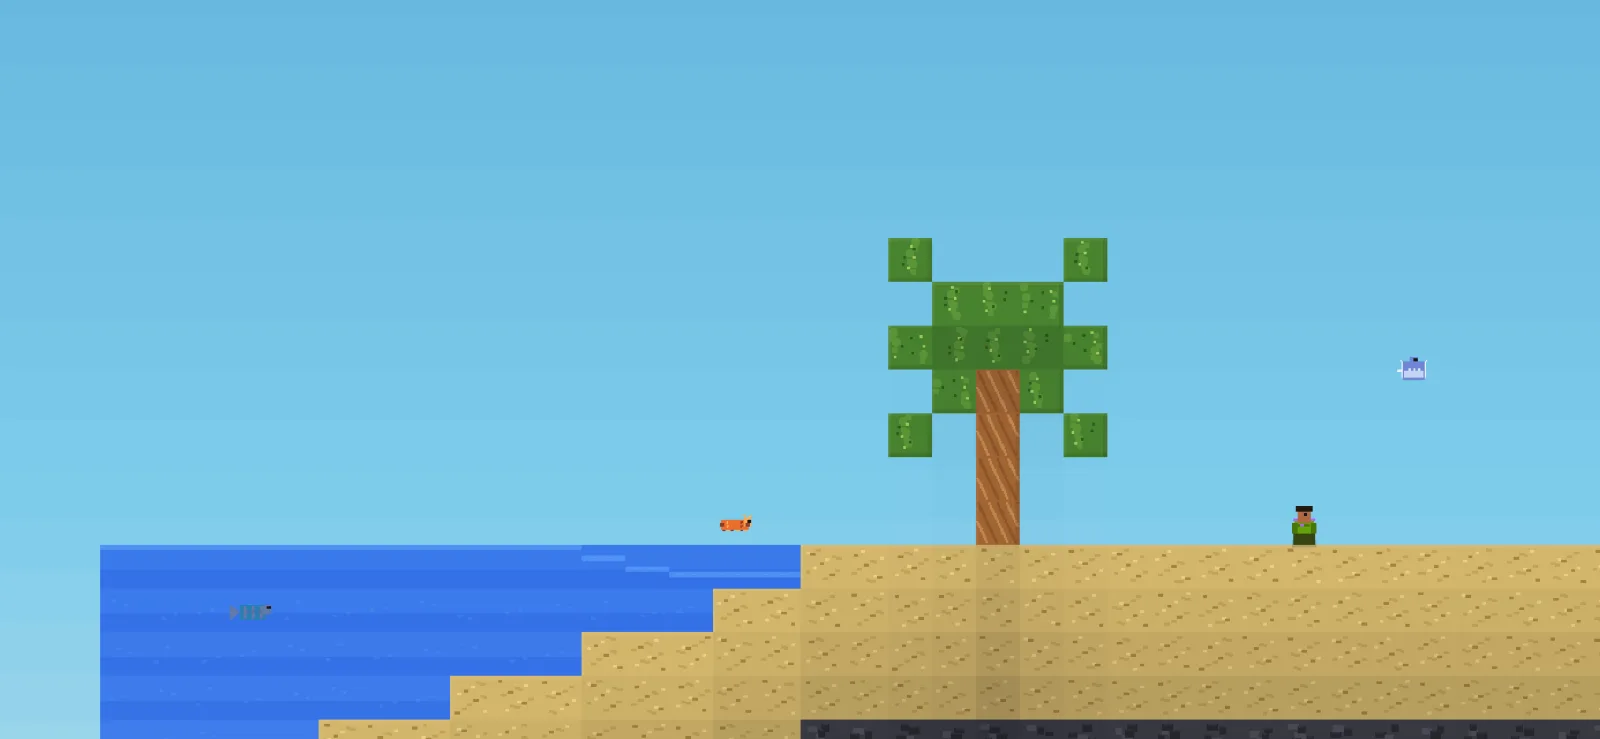
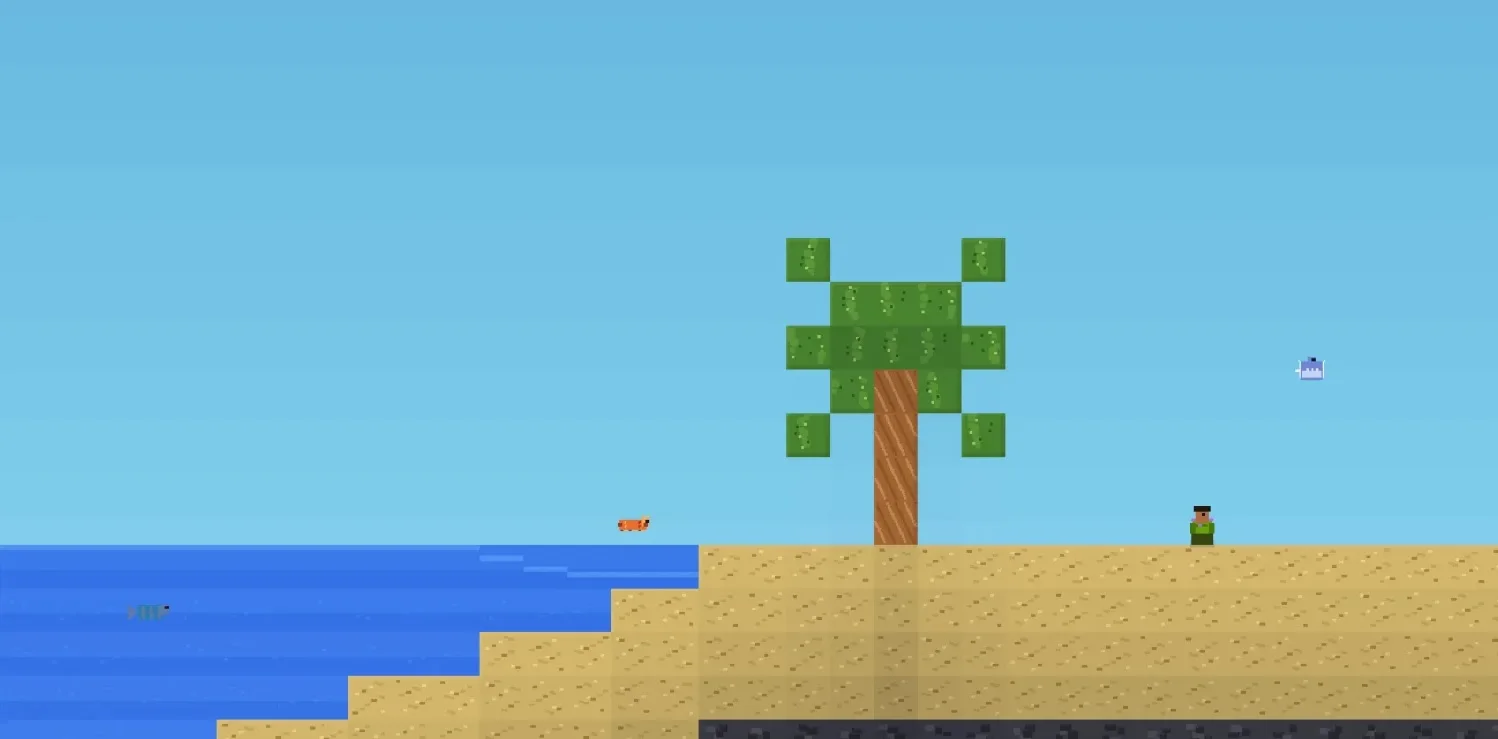
Use supplied Beach biome image

diff --git a/wiki/biomes/index.html b/wiki/biomes/index.html
@@ -24,7 +24,7 @@
 <body class="wiki-page">
   <header class="wiki-header"><a class="wiki-brand" href="/">Tiny Block</a><a class="btn btn-primary wiki-install" href="/download/">Play free</a></header>
   <nav class="wiki-nav" aria-label="Tiny Block Wiki"><a href="/wiki/">Wiki</a><a href="/wiki/biomes/">Biomes</a><a href="/wiki/materials/">Materials</a><a href="/wiki/creatures/">Creatures</a><a href="/wiki/plants/">Plants</a><a href="/wiki/recipes/">Recipes</a><a href="/guides/how-to-grow-your-one-block-island/">Starter guide</a></nav>
-  <main class="wiki-main"><section class="wiki-title"><p class="wiki-eyebrow">World generation</p><h1>Biomes</h1><p>Floating Islands can lead from bright plains to glaciers, beaches, caverns, and volcanic ground.</p></section><div class="wiki-stack"><article class="wiki-entry wiki-entry-media"><img src="/assets/wiki/biomes/plains.webp" alt="Plains biome in Tiny Block" width="1600" height="739" loading="lazy"><div><p class="wiki-label">Biome</p><h2>Plains</h2><p>Open grassland with occasional trees.</p><dl><dt>Terrain</dt><dd>Grass, dirt, stone</dd><dt>Plants</dt><dd>Meadow Bloom, Prairie Sprig, Oak, Weeping Tree</dd><dt>Creatures</dt><dd>Meadow Hopper, Forest Fox, Sky Mote</dd></dl></div></article><article class="wiki-entry wiki-entry-media"><img src="/assets/wiki/biomes/forest.webp" alt="Forest biome in Tiny Block" width="1600" height="739" loading="lazy"><div><p class="wiki-label">Biome</p><h2>Forest</h2><p>A damp woodland rich in trees and small creatures.</p><dl><dt>Terrain</dt><dd>Grass, dirt, stone, wood</dd><dt>Plants</dt><dd>Prairie Sprig, Meadow Bloom, Oak, Weeping Tree</dd><dt>Creatures</dt><dd>Forest Fox, Moss Crawler, Moss Slug</dd></dl></div></article><article class="wiki-entry wiki-entry-media"><img src="/assets/wiki/biomes/tundra.webp" alt="Tundra biome in Tiny Block" width="1600" height="739" loading="lazy"><div><p class="wiki-label">Biome</p><h2>Tundra</h2><p>A cold open land where water slowly freezes.</p><dl><dt>Terrain</dt><dd>Dirt, stone, ice</dd><dt>Plants</dt><dd>Pine</dd><dt>Creatures</dt><dd>Snow Penguin, Sky Mote, Gloomwing</dd></dl></div></article><article class="wiki-entry wiki-entry-media"><img src="/assets/wiki/biomes/ice-fields.webp" alt="Ice Fields biome in Tiny Block" width="1600" height="739" loading="lazy"><div><p class="wiki-label">Biome</p><h2>Ice Fields</h2><p>A barren glacier of deep ice, frozen water, and exposed stone.</p><dl><dt>Terrain</dt><dd>Ice, stone, water</dd><dt>Plants</dt><dd>—</dd><dt>Creatures</dt><dd>Snow Penguin, Sky Mote, Gloomwing</dd></dl></div></article><article class="wiki-entry wiki-entry-media"><img src="/assets/wiki/biomes/desert.webp" alt="Desert biome in Tiny Block" width="1600" height="739" loading="lazy"><div><p class="wiki-label">Biome</p><h2>Desert</h2><p>Dry dunes over deep stone.</p><dl><dt>Terrain</dt><dd>Sand, stone</dd><dt>Plants</dt><dd>—</dd><dt>Creatures</dt><dd>Sky Mote, Dusk Prowler</dd></dl></div></article><article class="wiki-entry wiki-entry-media"><img src="/assets/wiki/biomes/obsidian.webp" alt="Obsidian Wastes biome in Tiny Block" width="1600" height="739" loading="lazy"><div><p class="wiki-label">Biome</p><h2>Obsidian Wastes</h2><p>Weathered volcanic ground hiding obsidian, ancient formations, and lava pools.</p><dl><dt>Terrain</dt><dd>Cobblestone, stone, obsidian, lava</dd><dt>Plants</dt><dd>—</dd><dt>Creatures</dt><dd>Ember Walker, Cinder Eel, Gloomwing</dd></dl></div></article><article class="wiki-entry wiki-entry-media"><img src="/assets/wiki/biomes/beach.webp" alt="Beach biome in Tiny Block" width="1600" height="739" loading="lazy"><div><p class="wiki-label">Biome</p><h2>Beach</h2><p>A warm sandy edge beside open water.</p><dl><dt>Terrain</dt><dd>Sand, stone, water</dd><dt>Plants</dt><dd>Palm</dd><dt>Creatures</dt><dd>Pool Drifter, Sand Crab, Sky Mote</dd></dl></div></article><article class="wiki-entry wiki-entry-media"><img src="/assets/wiki/biomes/riverbank.webp" alt="Riverbank biome in Tiny Block" width="1600" height="739" loading="lazy"><div><p class="wiki-label">Biome</p><h2>Riverbank</h2><p>Low sandy ground shaped by flowing water.</p><dl><dt>Terrain</dt><dd>Sand, stone, water</dd><dt>Plants</dt><dd>—</dd><dt>Creatures</dt><dd>Pool Drifter, Sand Crab, Moss Slug</dd></dl></div></article><article class="wiki-entry wiki-entry-media"><img src="/assets/wiki/biomes/cavern.webp" alt="Cavern biome in Tiny Block" width="1600" height="739" loading="lazy"><div><p class="wiki-label">Biome</p><h2>Cavern</h2><p>A dark underground habitat.</p><dl><dt>Terrain</dt><dd>Stone</dd><dt>Plants</dt><dd>Cave Vines</dd><dt>Creatures</dt><dd>Cave Spider, Cave Skitter, Moss Crawler</dd></dl></div></article><article class="wiki-entry wiki-entry-media"><img src="/assets/wiki/biomes/volcanic.webp" alt="Volcanic biome in Tiny Block" width="1600" height="739" loading="lazy"><div><p class="wiki-label">Biome</p><h2>Volcanic</h2><p>Hot rock pockets inhabited by ember creatures.</p><dl><dt>Terrain</dt><dd>Stone, obsidian, lava</dd><dt>Plants</dt><dd>—</dd><dt>Creatures</dt><dd>Ember Walker, Cinder Eel</dd></dl></div></article></div></main>
+  <main class="wiki-main"><section class="wiki-title"><p class="wiki-eyebrow">World generation</p><h1>Biomes</h1><p>Floating Islands can lead from bright plains to glaciers, beaches, caverns, and volcanic ground.</p></section><div class="wiki-stack"><article class="wiki-entry wiki-entry-media"><img src="/assets/wiki/biomes/plains.webp" alt="Plains biome in Tiny Block" width="1600" height="739" loading="lazy"><div><p class="wiki-label">Biome</p><h2>Plains</h2><p>Open grassland with occasional trees.</p><dl><dt>Terrain</dt><dd>Grass, dirt, stone</dd><dt>Plants</dt><dd>Meadow Bloom, Prairie Sprig, Oak, Weeping Tree</dd><dt>Creatures</dt><dd>Meadow Hopper, Forest Fox, Sky Mote</dd></dl></div></article><article class="wiki-entry wiki-entry-media"><img src="/assets/wiki/biomes/forest.webp" alt="Forest biome in Tiny Block" width="1600" height="739" loading="lazy"><div><p class="wiki-label">Biome</p><h2>Forest</h2><p>A damp woodland rich in trees and small creatures.</p><dl><dt>Terrain</dt><dd>Grass, dirt, stone, wood</dd><dt>Plants</dt><dd>Prairie Sprig, Meadow Bloom, Oak, Weeping Tree</dd><dt>Creatures</dt><dd>Forest Fox, Moss Crawler, Moss Slug</dd></dl></div></article><article class="wiki-entry wiki-entry-media"><img src="/assets/wiki/biomes/tundra.webp" alt="Tundra biome in Tiny Block" width="1600" height="739" loading="lazy"><div><p class="wiki-label">Biome</p><h2>Tundra</h2><p>A cold open land where water slowly freezes.</p><dl><dt>Terrain</dt><dd>Dirt, stone, ice</dd><dt>Plants</dt><dd>Pine</dd><dt>Creatures</dt><dd>Snow Penguin, Sky Mote, Gloomwing</dd></dl></div></article><article class="wiki-entry wiki-entry-media"><img src="/assets/wiki/biomes/ice-fields.webp" alt="Ice Fields biome in Tiny Block" width="1600" height="739" loading="lazy"><div><p class="wiki-label">Biome</p><h2>Ice Fields</h2><p>A barren glacier of deep ice, frozen water, and exposed stone.</p><dl><dt>Terrain</dt><dd>Ice, stone, water</dd><dt>Plants</dt><dd>—</dd><dt>Creatures</dt><dd>Snow Penguin, Sky Mote, Gloomwing</dd></dl></div></article><article class="wiki-entry wiki-entry-media"><img src="/assets/wiki/biomes/desert.webp" alt="Desert biome in Tiny Block" width="1600" height="739" loading="lazy"><div><p class="wiki-label">Biome</p><h2>Desert</h2><p>Dry dunes over deep stone.</p><dl><dt>Terrain</dt><dd>Sand, stone</dd><dt>Plants</dt><dd>—</dd><dt>Creatures</dt><dd>Sky Mote, Dusk Prowler</dd></dl></div></article><article class="wiki-entry wiki-entry-media"><img src="/assets/wiki/biomes/obsidian.webp" alt="Obsidian Wastes biome in Tiny Block" width="1600" height="739" loading="lazy"><div><p class="wiki-label">Biome</p><h2>Obsidian Wastes</h2><p>Weathered volcanic ground hiding obsidian, ancient formations, and lava pools.</p><dl><dt>Terrain</dt><dd>Cobblestone, stone, obsidian, lava</dd><dt>Plants</dt><dd>—</dd><dt>Creatures</dt><dd>Ember Walker, Cinder Eel, Gloomwing</dd></dl></div></article><article class="wiki-entry wiki-entry-media"><img src="/assets/wiki/biomes/beach.webp" alt="Beach biome in Tiny Block" width="1498" height="739" loading="lazy"><div><p class="wiki-label">Biome</p><h2>Beach</h2><p>A warm sandy edge beside open water.</p><dl><dt>Terrain</dt><dd>Sand, stone, water</dd><dt>Plants</dt><dd>Palm</dd><dt>Creatures</dt><dd>Pool Drifter, Sand Crab, Sky Mote</dd></dl></div></article><article class="wiki-entry wiki-entry-media"><img src="/assets/wiki/biomes/riverbank.webp" alt="Riverbank biome in Tiny Block" width="1600" height="739" loading="lazy"><div><p class="wiki-label">Biome</p><h2>Riverbank</h2><p>Low sandy ground shaped by flowing water.</p><dl><dt>Terrain</dt><dd>Sand, stone, water</dd><dt>Plants</dt><dd>—</dd><dt>Creatures</dt><dd>Pool Drifter, Sand Crab, Moss Slug</dd></dl></div></article><article class="wiki-entry wiki-entry-media"><img src="/assets/wiki/biomes/cavern.webp" alt="Cavern biome in Tiny Block" width="1600" height="739" loading="lazy"><div><p class="wiki-label">Biome</p><h2>Cavern</h2><p>A dark underground habitat.</p><dl><dt>Terrain</dt><dd>Stone</dd><dt>Plants</dt><dd>Cave Vines</dd><dt>Creatures</dt><dd>Cave Spider, Cave Skitter, Moss Crawler</dd></dl></div></article><article class="wiki-entry wiki-entry-media"><img src="/assets/wiki/biomes/volcanic.webp" alt="Volcanic biome in Tiny Block" width="1600" height="739" loading="lazy"><div><p class="wiki-label">Biome</p><h2>Volcanic</h2><p>Hot rock pockets inhabited by ember creatures.</p><dl><dt>Terrain</dt><dd>Stone, obsidian, lava</dd><dt>Plants</dt><dd>—</dd><dt>Creatures</dt><dd>Ember Walker, Cinder Eel</dd></dl></div></article></div></main>
   <footer class="site-foot wiki-foot"><a href="/">Game</a><a href="/creators/">Creators</a><a href="/privacy/">Privacy</a><a href="https://nosuchgames.com">No Such Games</a></footer>
 </body>
 </html>

diff --git a/scripts/generate_wiki.py b/scripts/generate_wiki.py
@@ -178,7 +178,8 @@ def render() -> None:
 
     biome_cards = []
     for name, copy, terrain, plants, creatures, image in BIOMES:
-        media = f'<img src="/assets/wiki/biomes/{image}" alt="{esc(name)} biome in Tiny Block" width="1600" height="739" loading="lazy">' if image else ""
+        image_width, image_height = (1498, 739) if image == "beach.webp" else (1600, 739)
+        media = f'<img src="/assets/wiki/biomes/{image}" alt="{esc(name)} biome in Tiny Block" width="{image_width}" height="{image_height}" loading="lazy">' if image else ""
         biome_cards.append(f'<article class="wiki-entry wiki-entry-media">{media}<div><p class="wiki-label">Biome</p><h2>{esc(name)}</h2><p>{esc(copy)}</p><dl><dt>Terrain</dt><dd>{esc(terrain)}</dd><dt>Plants</dt><dd>{esc(plants)}</dd><dt>Creatures</dt><dd>{esc(creatures)}</dd></dl></div></article>')
     page("Biomes", "Discover the ten current Tiny Block biomes, their terrain, plants, creatures, fluids, and environmental character.", "wiki/biomes/", '<section class="wiki-title"><p class="wiki-eyebrow">World generation</p><h1>Biomes</h1><p>Floating Islands can lead from bright plains to glaciers, beaches, caverns, and volcanic ground.</p></section><div class="wiki-stack">' + "".join(biome_cards) + "</div>")
 
